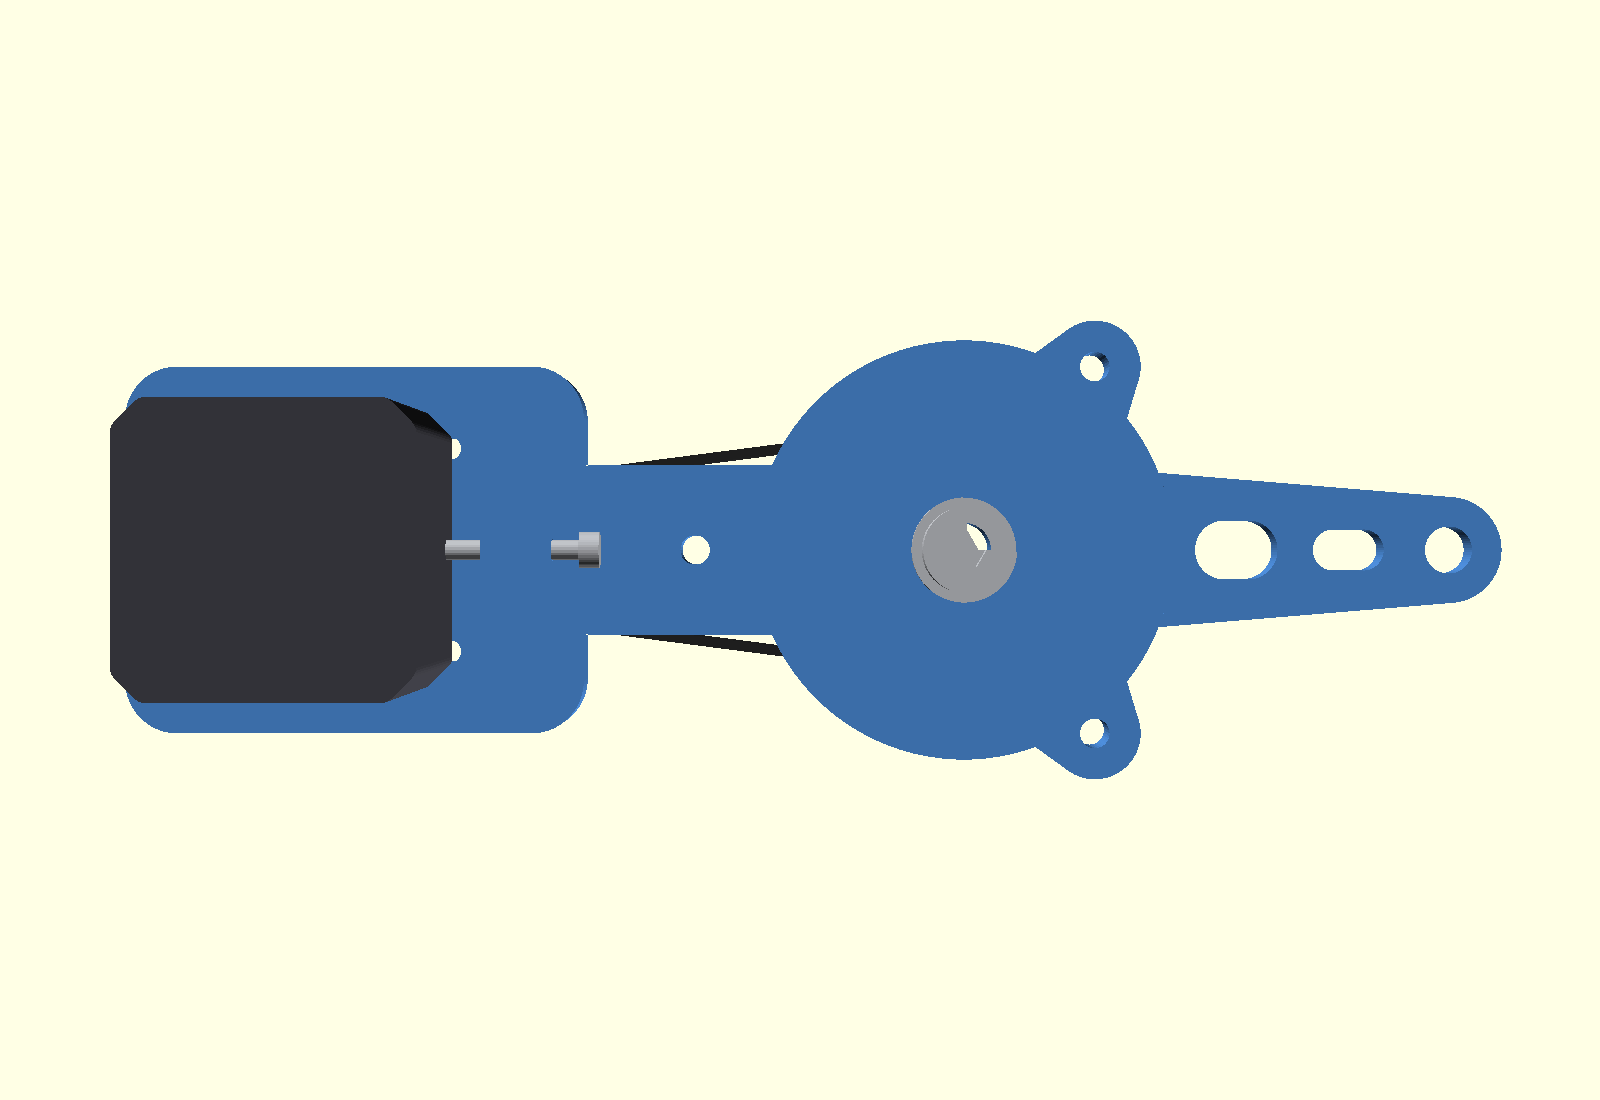
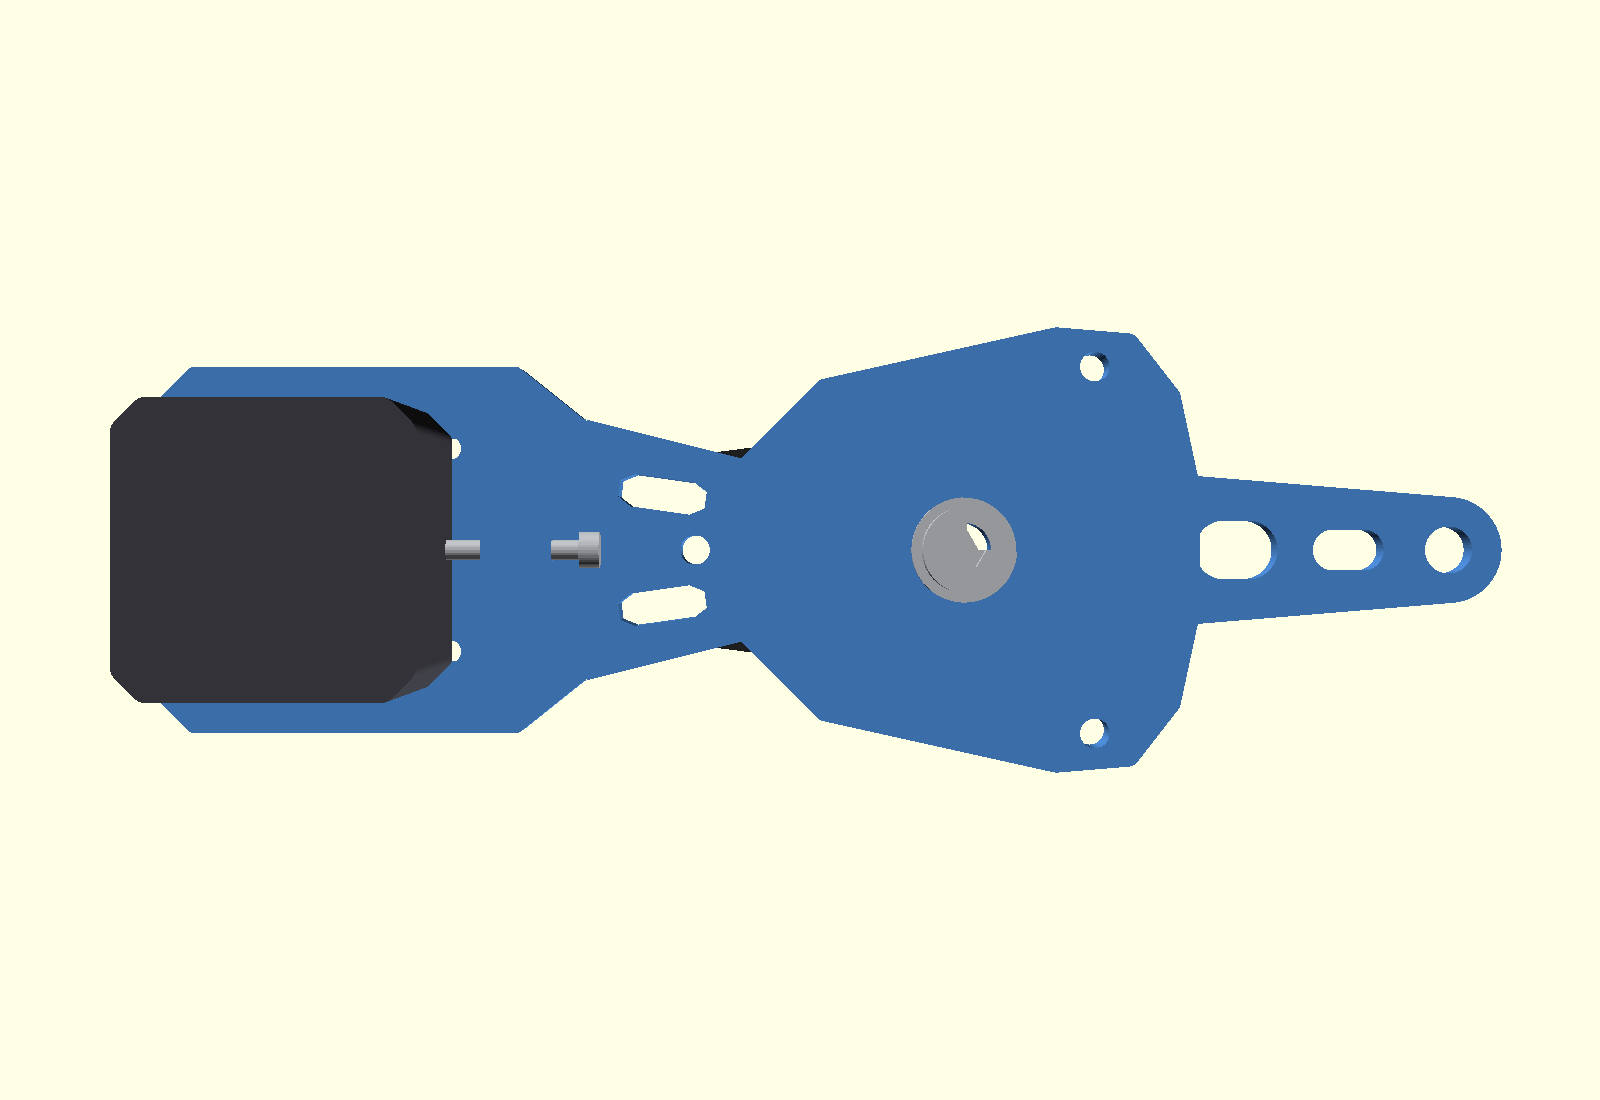
베이스 플레이트 메카닉 스타일링: 패싯 윤곽 + 패널라인 트렌치 + 헥스 벤트
- 둥근 도그본 → 45° 챔퍼 모터 패드 / 테이퍼 웨이스트 / 출력 패싯 / 스웹트 윙
- 상면 패널라인 트렌치(깊이 2, 폭 3.5), 웨이스트 관통 헥스 벤트 2개
- 2.5D 윤곽·포켓만 사용 → CNC 호환 유지, 부피 58.9cm³ (전체 -37% 유지)

https://claude.ai/code/session_014RXXExQczonAJzcw2caz8Y

diff --git a/DESIGN.md b/DESIGN.md
@@ -33,16 +33,16 @@
 
 초기 검증은 3D 프린팅으로, 이후 CNC 가공으로 전환하는 것을 전제로, 세 프린팅 부품 모두 **평면 윤곽 + 관통/단차 포켓만으로 구성된 2.5D 형상**을 유지하면서 다음과 같이 경량화했습니다. 동일 윤곽을 CNC(알루미늄/POM 판재)에서 그대로 재사용할 수 있습니다.
 
-* **베이스 플레이트** — 직사각 통판 → **도그본**: 모터 패드(슬롯·보스 장공·잭 블록 영역) + 연결 빔(폭 26) + 출력 디스크(R32) + 장착 귀 2개. 프레임 장착홀은 모터 패드 1 + 빔 1 + 귀 2의 4점.
+* **베이스 플레이트** — 직사각 통판 → **패싯(각면) 윤곽**: 45° 챔퍼 모터 패드 + 테이퍼 웨이스트 + 출력부 패싯 + 스웹트 윙(장착 귀). 상면에 패널라인 트렌치(깊이 2, 폭 3.5)와 웨이스트 헥스 벤트 2개(관통)를 넣어 강성 손실 없이 감량·스타일링. 프레임 장착홀은 모터 패드 1 + 웨이스트 1 + 윙 2의 4점.
 * **암** — 끝단 폭 32→18mm 테이퍼 + 관통 트러스 컷 3개(측벽 5mm 이상 유지).
 * **허브 플랜지 / 클램프 링** — 원판 → **3-로브 스캘럽**(볼트 자리 로브만 유지). 풀리 플랜지 접촉 링(Ø46~48)과 리세스 벽은 연속으로 유지.
 
 | 부품 (솔리드 기준) | 기존 | 최적화 | 절감 |
 | ----------- | ---: | ---: | ---: |
-| 베이스 플레이트   | 101.2cm³ | 58.3cm³ | −42% |
+| 베이스 플레이트   | 101.2cm³ | 58.9cm³ | −42% |
 | 암 허브/암     | 32.5cm³ | 25.3cm³ | −22% |
 | 클램프 링      | 4.3cm³ | 3.0cm³ | −31% |
-| **합계**      | **138.0cm³** | **86.6cm³** | **−37%** (PETG 솔리드 환산 175g→110g) |
+| **합계**      | **138.0cm³** | **87.2cm³** | **−37%** (PETG 솔리드 환산 175g→111g) |
 
 실제 출력 시에는 인필 30~50%를 적용하므로 사용량은 더 줄어듭니다. 단품 STL은 `scad/print_parts.scad`에서 내보냅니다(베이스는 윗면을 베드에, 암 허브는 암 윗면을 베드에 — 권장 방향이 파일에 반영되어 있음).
 
